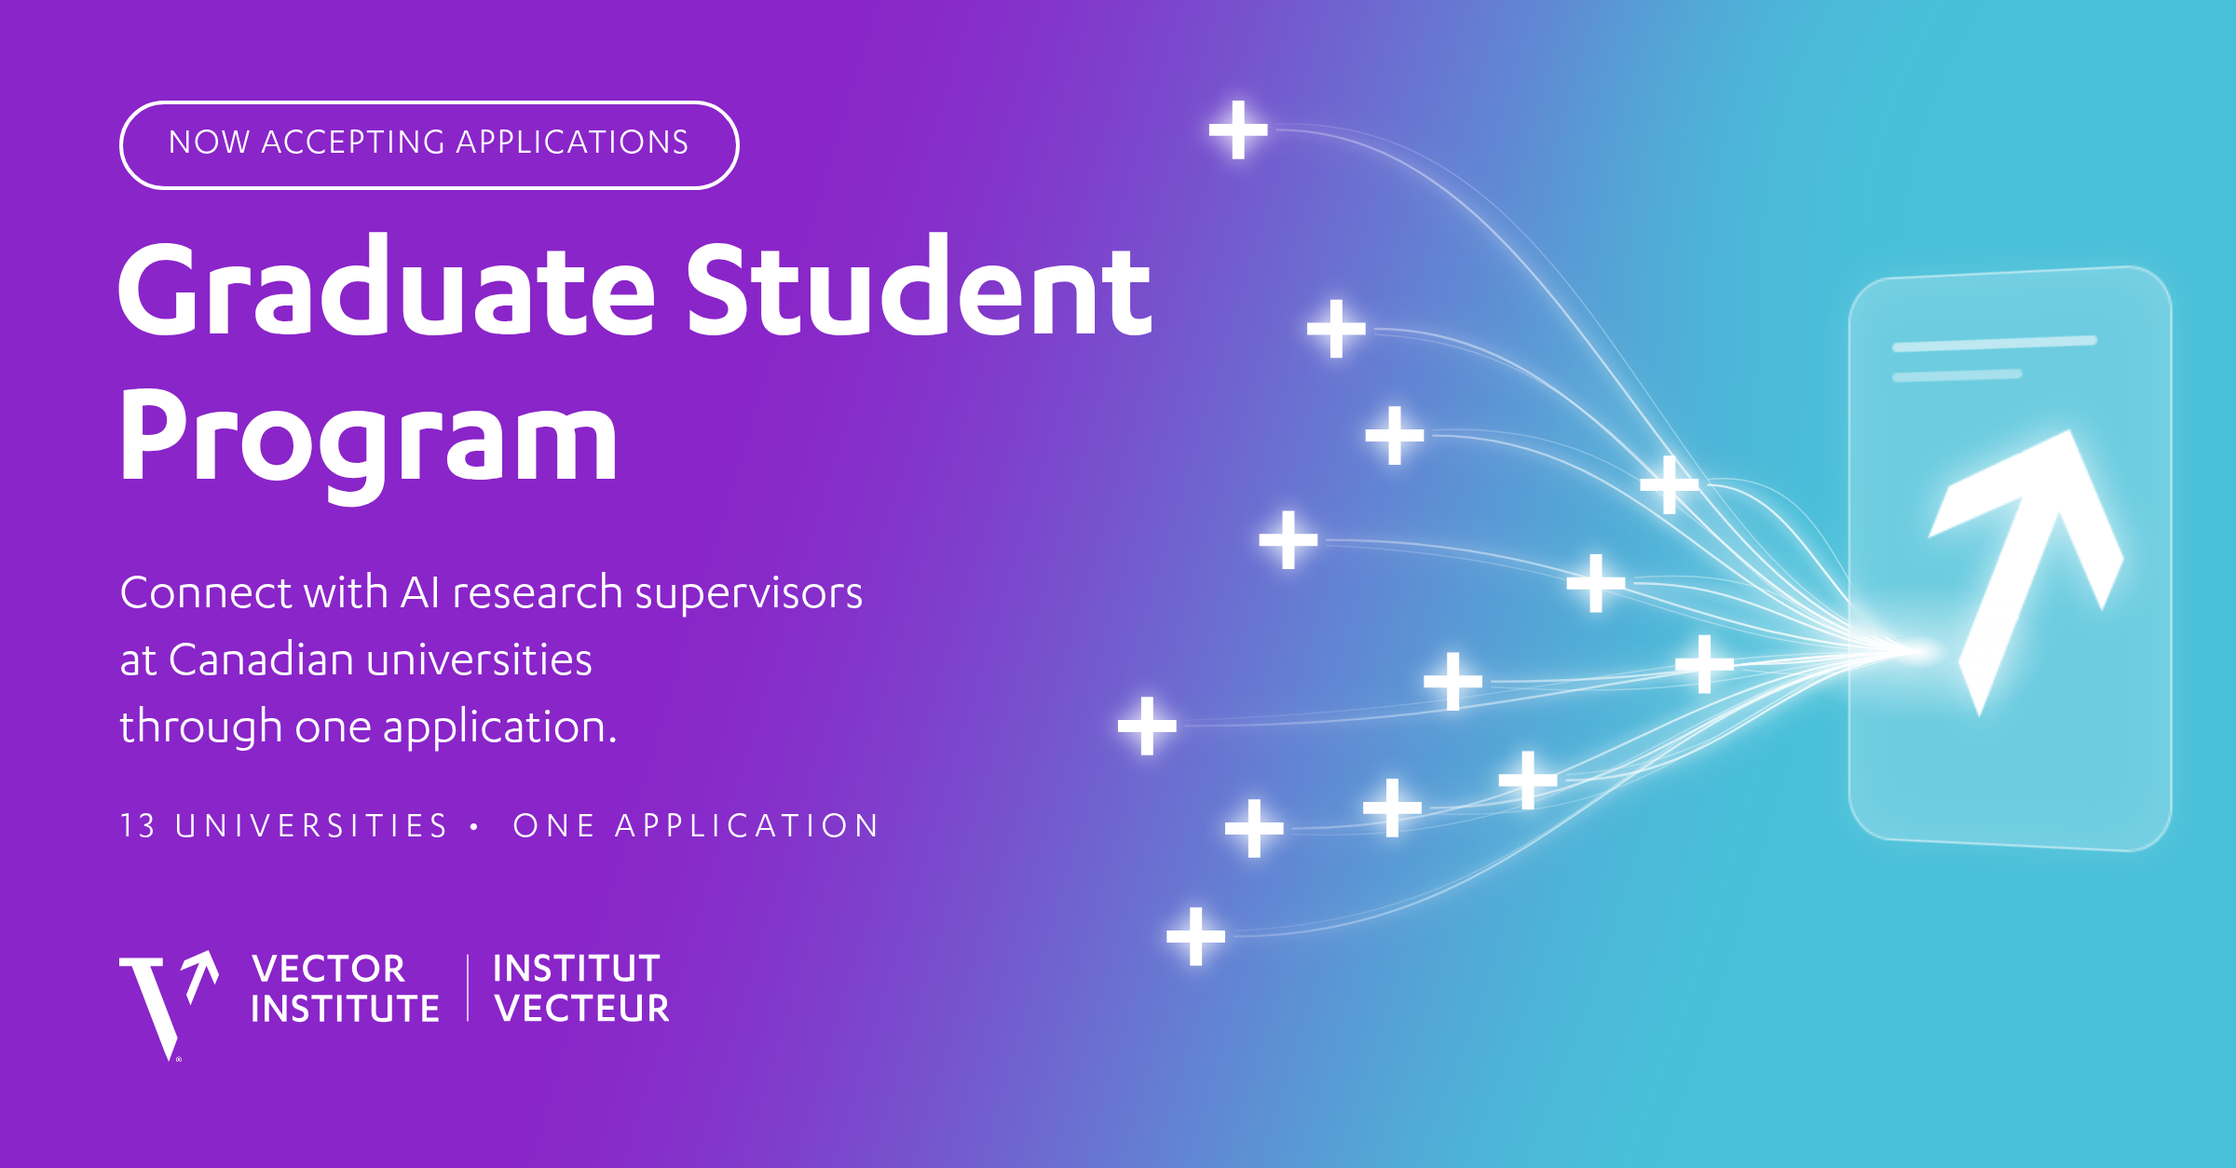
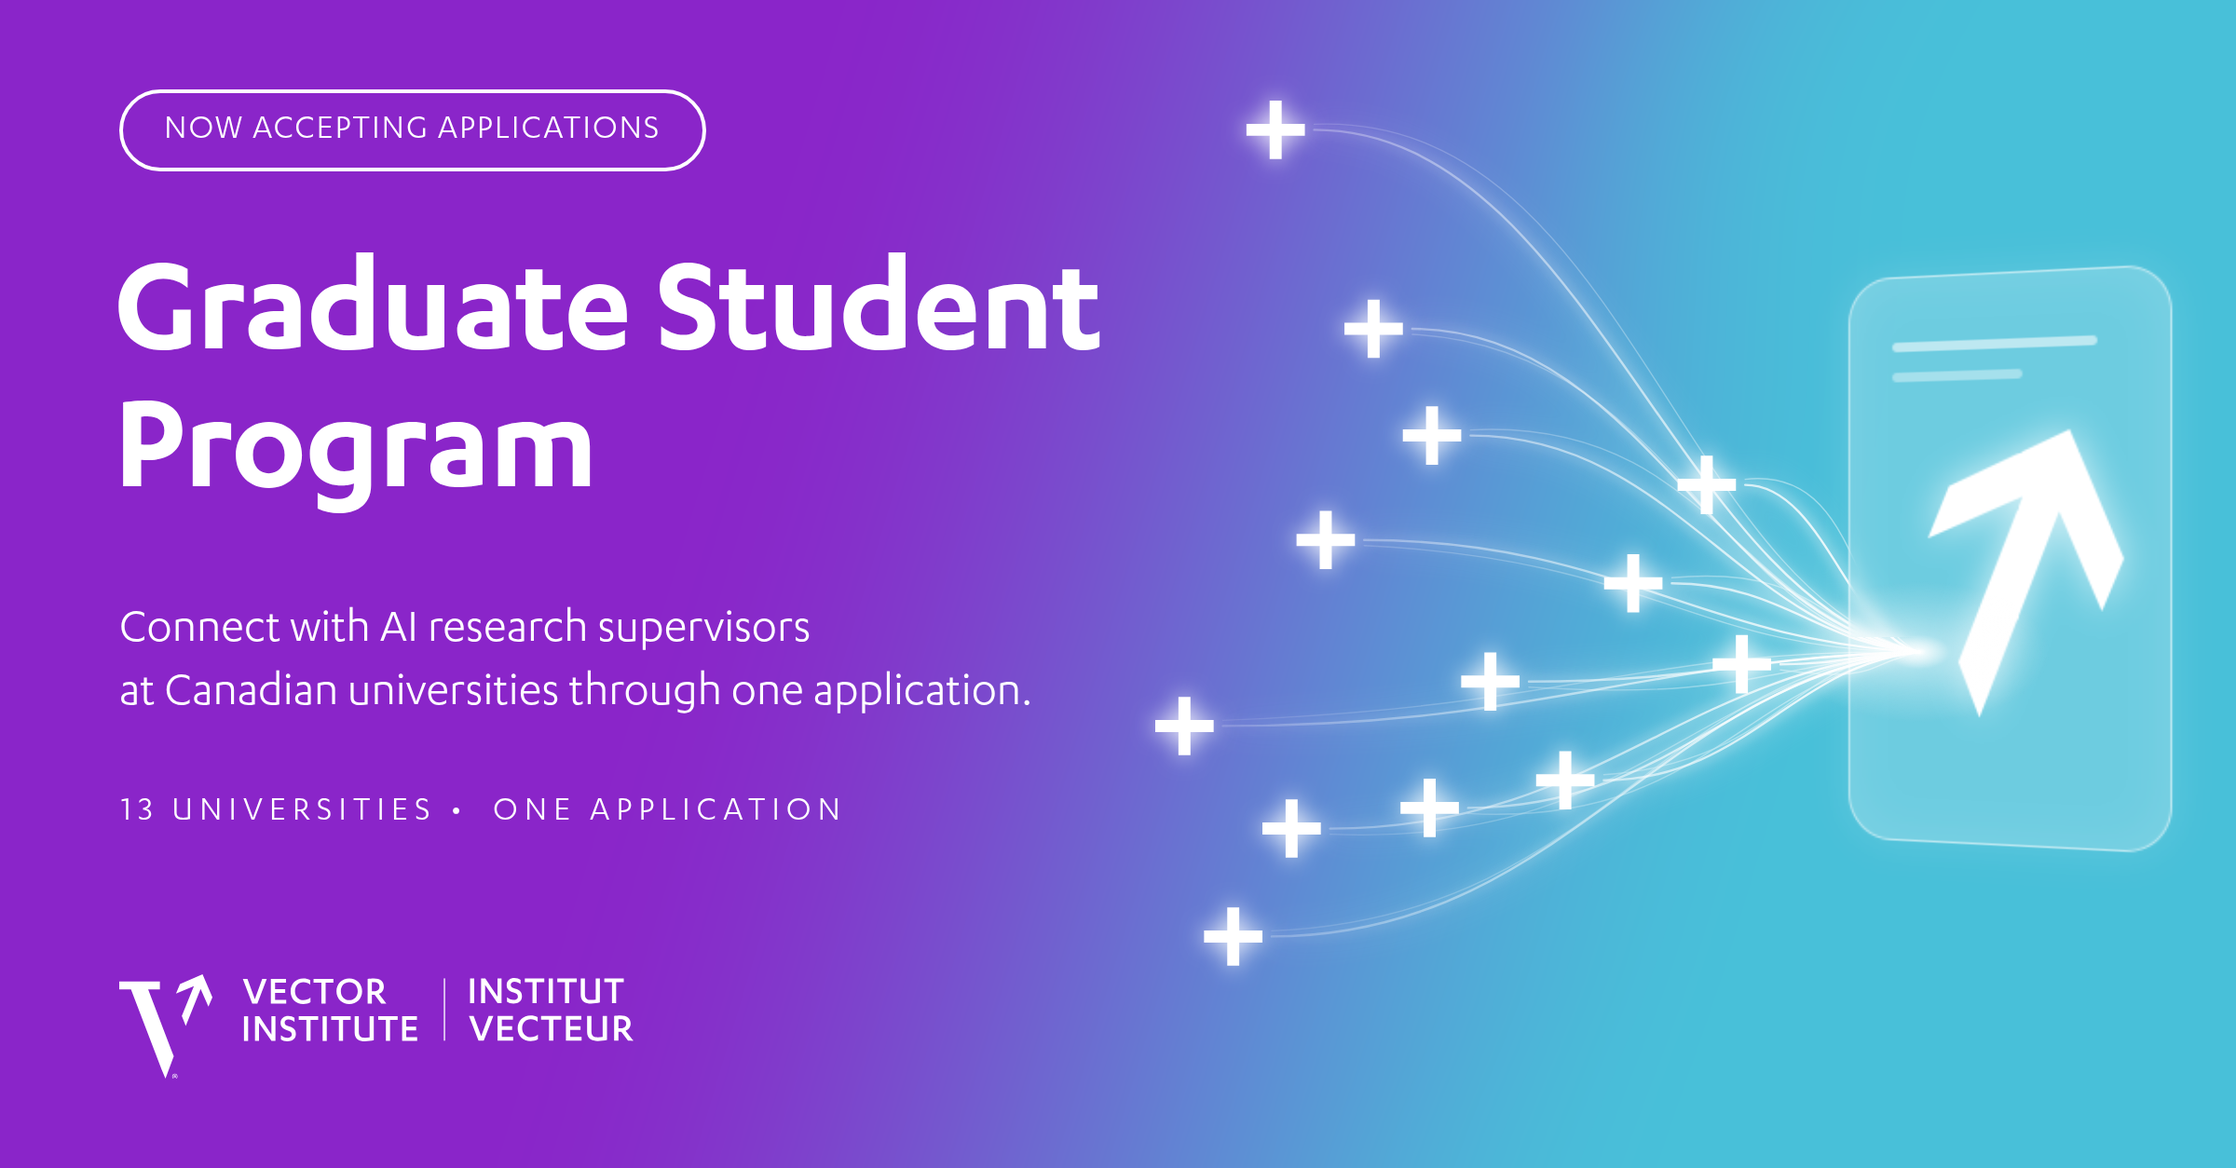
Graduate Student Program graphic: roomier text spacing, two-line byline
More space between pill, headline, byline, tagline and logo; byline back
to two lines at 26px; plus pattern nudged right to keep 66px clearance.
Text layout values now live in one dict in build.py.

Claude-Session: https://claude.ai/code/session_012MwK1vmEpNzT6vtmv9guo8

diff --git a/graduate-student-program/graphic.html b/graduate-student-program/graphic.html
@@ -6,13 +6,13 @@
 html,body{width:1200px;height:627px;overflow:hidden;background:#8A25C9}
 #c{position:relative;width:1200px;height:627px;font-family:Karbon,sans-serif;color:#fff;overflow:hidden}
 .bg,svg.fx{position:absolute;inset:0}
-.pill{position:absolute;left:64px;top:54px;height:48px;padding:0 24px;border:2px solid #fff;border-radius:24px;
-  display:flex;align-items:center;font-size:20px;letter-spacing:.05em;font-weight:400}
-h1{position:absolute;left:61px;top:126px;font-weight:600;font-size:80px;line-height:.98;letter-spacing:-.012em}
-.by{position:absolute;left:64px;top:304px;font-size:28px;line-height:1.28;font-weight:400;width:640px}
-.tr{position:absolute;left:65px;top:433px;font-size:20px;letter-spacing:.18em;font-weight:400}
+.pill{position:absolute;left:64px;top:48px;height:44px;padding:0 22px;border:2px solid #fff;border-radius:22px;
+  display:flex;align-items:center;font-size:19px;letter-spacing:.05em;font-weight:400}
+h1{position:absolute;left:61px;top:136px;font-weight:600;font-size:76px;line-height:.98;letter-spacing:-.012em}
+.by{position:absolute;left:64px;top:323px;font-size:26px;line-height:1.3;font-weight:400;white-space:nowrap}
+.tr{position:absolute;left:65px;top:425px;font-size:19px;letter-spacing:.18em;font-weight:400}
 .tr i{font-style:normal;margin:0 .7em 0 .4em}
-.logo{position:absolute;left:64px;top:510px;height:60px}
+.logo{position:absolute;left:64px;top:523px;height:56px}
 .stage{position:absolute;left:992px;top:150px;width:176px;height:300px;perspective:900px}
 .card{width:100%;height:100%;border-radius:24px;background:rgba(255,255,255,.2);
   border:1.5px solid rgba(255,255,255,.55);transform:rotateY(-16deg);transform-origin:0 50%;
@@ -34,12 +34,12 @@ h1{position:absolute;left:61px;top:126px;font-weight:600;font-size:80px;line-hei
    <stop offset="1" stop-color="#fff" stop-opacity="0"/></radialGradient>
  </defs>
  <g fill="none" stroke="url(#t)" stroke-linecap="round">
-  <g stroke-width="7" opacity=".35" filter="url(#glow2)"><path d="M662.5 502.7C827.9 502.7 883.0 365.3 1030 350"/><path d="M693.8 444.8C845.1 444.8 895.5 359.5 1030 350"/><path d="M636.3 389.7C813.5 389.7 872.5 354.0 1030 350"/><path d="M767.9 433.7C885.9 433.7 925.2 358.4 1030 350"/><path d="M840.7 418.9C925.9 418.9 954.3 356.9 1030 350"/><path d="M800.5 365.9C903.8 365.9 938.2 351.6 1030 350"/><path d="M877.2 313.1C946.0 313.1 968.9 346.3 1030 350"/><path d="M935.5 356.6C978.0 356.6 992.2 350.7 1030 350"/><path d="M916.6 260.3C967.6 260.3 984.7 341.0 1030 350"/><path d="M712.1 289.9C855.2 289.9 902.9 344.0 1030 350"/><path d="M769.2 233.8C886.6 233.8 925.7 338.4 1030 350"/><path d="M737.9 176.5C869.3 176.5 913.1 332.7 1030 350"/><path d="M685.3 69.7C840.4 69.7 892.1 322.0 1030 350"/></g>
-  <g stroke-width="3" opacity=".6" filter="url(#glow)"><path d="M662.5 502.7C827.9 502.7 883.0 365.3 1030 350"/><path d="M693.8 444.8C845.1 444.8 895.5 359.5 1030 350"/><path d="M636.3 389.7C813.5 389.7 872.5 354.0 1030 350"/><path d="M767.9 433.7C885.9 433.7 925.2 358.4 1030 350"/><path d="M840.7 418.9C925.9 418.9 954.3 356.9 1030 350"/><path d="M800.5 365.9C903.8 365.9 938.2 351.6 1030 350"/><path d="M877.2 313.1C946.0 313.1 968.9 346.3 1030 350"/><path d="M935.5 356.6C978.0 356.6 992.2 350.7 1030 350"/><path d="M916.6 260.3C967.6 260.3 984.7 341.0 1030 350"/><path d="M712.1 289.9C855.2 289.9 902.9 344.0 1030 350"/><path d="M769.2 233.8C886.6 233.8 925.7 338.4 1030 350"/><path d="M737.9 176.5C869.3 176.5 913.1 332.7 1030 350"/><path d="M685.3 69.7C840.4 69.7 892.1 322.0 1030 350"/></g>
-  <g stroke-width="1.2" opacity=".95"><path d="M662.5 502.7C827.9 502.7 883.0 365.3 1030 350"/><path d="M693.8 444.8C845.1 444.8 895.5 359.5 1030 350"/><path d="M636.3 389.7C813.5 389.7 872.5 354.0 1030 350"/><path d="M767.9 433.7C885.9 433.7 925.2 358.4 1030 350"/><path d="M840.7 418.9C925.9 418.9 954.3 356.9 1030 350"/><path d="M800.5 365.9C903.8 365.9 938.2 351.6 1030 350"/><path d="M877.2 313.1C946.0 313.1 968.9 346.3 1030 350"/><path d="M935.5 356.6C978.0 356.6 992.2 350.7 1030 350"/><path d="M916.6 260.3C967.6 260.3 984.7 341.0 1030 350"/><path d="M712.1 289.9C855.2 289.9 902.9 344.0 1030 350"/><path d="M769.2 233.8C886.6 233.8 925.7 338.4 1030 350"/><path d="M737.9 176.5C869.3 176.5 913.1 332.7 1030 350"/><path d="M685.3 69.7C840.4 69.7 892.1 322.0 1030 350"/></g>
-  <g stroke-width=".7" opacity=".5"><path d="M662.5 499.7C847.9 492.7 883.0 359.3 1030 350"/><path d="M693.8 447.8C865.1 454.8 895.5 365.5 1030 350"/><path d="M636.3 386.7C833.5 379.7 872.5 348.0 1030 350"/><path d="M767.9 436.7C905.9 443.7 925.2 364.4 1030 350"/><path d="M840.7 415.9C945.9 408.9 954.3 350.9 1030 350"/><path d="M800.5 368.9C923.8 375.9 938.2 357.6 1030 350"/><path d="M877.2 310.1C966.0 303.1 968.9 340.3 1030 350"/><path d="M935.5 359.6C998.0 366.6 992.2 356.7 1030 350"/><path d="M916.6 257.3C987.6 250.3 984.7 335.0 1030 350"/><path d="M712.1 292.9C875.2 299.9 902.9 350.0 1030 350"/><path d="M769.2 230.8C906.6 223.8 925.7 332.4 1030 350"/><path d="M737.9 179.5C889.3 186.5 913.1 338.7 1030 350"/><path d="M685.3 66.7C860.4 59.7 892.1 316.0 1030 350"/></g>
+  <g stroke-width="7" opacity=".35" filter="url(#glow2)"><path d="M682.5 502.7C838.9 502.7 891.0 365.3 1030 350"/><path d="M713.8 444.8C856.1 444.8 903.5 359.5 1030 350"/><path d="M656.3 389.7C824.5 389.7 880.5 354.0 1030 350"/><path d="M787.9 433.7C896.9 433.7 933.2 358.4 1030 350"/><path d="M860.7 418.9C936.9 418.9 962.3 356.9 1030 350"/><path d="M820.5 365.9C914.8 365.9 946.2 351.6 1030 350"/><path d="M897.2 313.1C957.0 313.1 976.9 346.3 1030 350"/><path d="M955.5 356.6C989.0 356.6 1000.2 350.7 1030 350"/><path d="M936.6 260.3C978.6 260.3 992.7 341.0 1030 350"/><path d="M732.1 289.9C866.2 289.9 910.9 344.0 1030 350"/><path d="M789.2 233.8C897.6 233.8 933.7 338.4 1030 350"/><path d="M757.9 176.5C880.3 176.5 921.1 332.7 1030 350"/><path d="M705.3 69.7C851.4 69.7 900.1 322.0 1030 350"/></g>
+  <g stroke-width="3" opacity=".6" filter="url(#glow)"><path d="M682.5 502.7C838.9 502.7 891.0 365.3 1030 350"/><path d="M713.8 444.8C856.1 444.8 903.5 359.5 1030 350"/><path d="M656.3 389.7C824.5 389.7 880.5 354.0 1030 350"/><path d="M787.9 433.7C896.9 433.7 933.2 358.4 1030 350"/><path d="M860.7 418.9C936.9 418.9 962.3 356.9 1030 350"/><path d="M820.5 365.9C914.8 365.9 946.2 351.6 1030 350"/><path d="M897.2 313.1C957.0 313.1 976.9 346.3 1030 350"/><path d="M955.5 356.6C989.0 356.6 1000.2 350.7 1030 350"/><path d="M936.6 260.3C978.6 260.3 992.7 341.0 1030 350"/><path d="M732.1 289.9C866.2 289.9 910.9 344.0 1030 350"/><path d="M789.2 233.8C897.6 233.8 933.7 338.4 1030 350"/><path d="M757.9 176.5C880.3 176.5 921.1 332.7 1030 350"/><path d="M705.3 69.7C851.4 69.7 900.1 322.0 1030 350"/></g>
+  <g stroke-width="1.2" opacity=".95"><path d="M682.5 502.7C838.9 502.7 891.0 365.3 1030 350"/><path d="M713.8 444.8C856.1 444.8 903.5 359.5 1030 350"/><path d="M656.3 389.7C824.5 389.7 880.5 354.0 1030 350"/><path d="M787.9 433.7C896.9 433.7 933.2 358.4 1030 350"/><path d="M860.7 418.9C936.9 418.9 962.3 356.9 1030 350"/><path d="M820.5 365.9C914.8 365.9 946.2 351.6 1030 350"/><path d="M897.2 313.1C957.0 313.1 976.9 346.3 1030 350"/><path d="M955.5 356.6C989.0 356.6 1000.2 350.7 1030 350"/><path d="M936.6 260.3C978.6 260.3 992.7 341.0 1030 350"/><path d="M732.1 289.9C866.2 289.9 910.9 344.0 1030 350"/><path d="M789.2 233.8C897.6 233.8 933.7 338.4 1030 350"/><path d="M757.9 176.5C880.3 176.5 921.1 332.7 1030 350"/><path d="M705.3 69.7C851.4 69.7 900.1 322.0 1030 350"/></g>
+  <g stroke-width=".7" opacity=".5"><path d="M682.5 499.7C858.9 492.7 891.0 359.3 1030 350"/><path d="M713.8 447.8C876.1 454.8 903.5 365.5 1030 350"/><path d="M656.3 386.7C844.5 379.7 880.5 348.0 1030 350"/><path d="M787.9 436.7C916.9 443.7 933.2 364.4 1030 350"/><path d="M860.7 415.9C956.9 408.9 962.3 350.9 1030 350"/><path d="M820.5 368.9C934.8 375.9 946.2 357.6 1030 350"/><path d="M897.2 310.1C977.0 303.1 976.9 340.3 1030 350"/><path d="M955.5 359.6C1009.0 366.6 1000.2 356.7 1030 350"/><path d="M936.6 257.3C998.6 250.3 992.7 335.0 1030 350"/><path d="M732.1 292.9C886.2 299.9 910.9 350.0 1030 350"/><path d="M789.2 230.8C917.6 223.8 933.7 332.4 1030 350"/><path d="M757.9 179.5C900.3 186.5 921.1 338.7 1030 350"/><path d="M705.3 66.7C871.4 59.7 900.1 316.0 1030 350"/></g>
  </g>
- <g fill="#fff" filter="url(#pg)"><path d="M626.19 499.51H638.63V487.07H645.07V499.51H657.51V505.96H645.07V518.40H638.63V505.96H626.19Z"/><path d="M657.51 441.54H669.95V429.10H676.40V441.54H688.84V447.98H676.40V460.42H669.95V447.98H657.51Z"/><path d="M600.00 386.52H612.44V374.08H618.89V386.52H631.33V392.96H618.89V405.40H612.44V392.96H600.00Z"/><path d="M731.62 430.47H744.06V418.03H750.50V430.47H762.94V436.92H750.50V449.36H744.06V436.92H731.62Z"/><path d="M804.40 415.66H816.84V403.22H823.29V415.66H835.73V422.11H823.29V434.55H816.84V422.11H804.40Z"/><path d="M764.19 362.67H776.63V350.23H783.08V362.67H795.52V369.12H783.08V381.56H776.63V369.12H764.19Z"/><path d="M840.88 309.89H853.32V297.45H859.76V309.89H872.20V316.33H859.76V328.77H853.32V316.33H840.88Z"/><path d="M899.16 353.37H911.60V340.93H918.05V353.37H930.49V359.82H918.05V372.26H911.60V359.82H899.16Z"/><path d="M880.31 257.05H892.75V244.61H899.19V257.05H911.63V263.50H899.19V275.94H892.75V263.50H880.31Z"/><path d="M675.82 286.66H688.26V274.22H694.71V286.66H707.15V293.11H694.71V305.55H688.26V293.11H675.82Z"/><path d="M732.87 230.56H745.31V218.12H751.76V230.56H764.20V237.00H751.76V249.44H745.31V237.00H732.87Z"/><path d="M701.54 173.28H713.98V160.84H720.43V173.28H732.87V179.72H720.43V192.16H713.98V179.72H701.54Z"/><path d="M648.94 66.44H661.38V54.00H667.83V66.44H680.27V72.89H667.83V85.33H661.38V72.89H648.94Z"/></g>
+ <g fill="#fff" filter="url(#pg)"><path d="M646.19 499.51H658.63V487.07H665.07V499.51H677.51V505.96H665.07V518.40H658.63V505.96H646.19Z"/><path d="M677.51 441.54H689.95V429.10H696.40V441.54H708.84V447.98H696.40V460.42H689.95V447.98H677.51Z"/><path d="M620.00 386.52H632.44V374.08H638.89V386.52H651.33V392.96H638.89V405.40H632.44V392.96H620.00Z"/><path d="M751.62 430.47H764.06V418.03H770.50V430.47H782.94V436.92H770.50V449.36H764.06V436.92H751.62Z"/><path d="M824.40 415.66H836.84V403.22H843.29V415.66H855.73V422.11H843.29V434.55H836.84V422.11H824.40Z"/><path d="M784.19 362.67H796.63V350.23H803.08V362.67H815.52V369.12H803.08V381.56H796.63V369.12H784.19Z"/><path d="M860.88 309.89H873.32V297.45H879.76V309.89H892.20V316.33H879.76V328.77H873.32V316.33H860.88Z"/><path d="M919.16 353.37H931.60V340.93H938.05V353.37H950.49V359.82H938.05V372.26H931.60V359.82H919.16Z"/><path d="M900.31 257.05H912.75V244.61H919.19V257.05H931.63V263.50H919.19V275.94H912.75V263.50H900.31Z"/><path d="M695.82 286.66H708.26V274.22H714.71V286.66H727.15V293.11H714.71V305.55H708.26V293.11H695.82Z"/><path d="M752.87 230.56H765.31V218.12H771.76V230.56H784.20V237.00H771.76V249.44H765.31V237.00H752.87Z"/><path d="M721.54 173.28H733.98V160.84H740.43V173.28H752.87V179.72H740.43V192.16H733.98V179.72H721.54Z"/><path d="M668.94 66.44H681.38V54.00H687.83V66.44H700.27V72.89H687.83V85.33H681.38V72.89H668.94Z"/></g>
 </svg>
 <div class="stage"><div class="card">
  <div class="ln" style="top:34px;width:112px"></div><div class="ln" style="top:50px;width:72px;opacity:.7"></div>
@@ -51,9 +51,9 @@ h1{position:absolute;left:61px;top:126px;font-weight:600;font-size:80px;line-hei
 </svg>
 <div class="pill">NOW ACCEPTING APPLICATIONS</div>
 <h1>Graduate Student<br>Program</h1>
-<p class="by">Connect with AI research supervisors<br>at Canadian universities<br>through one application.</p>
+<p class="by">Connect with AI research supervisors<br>at Canadian universities through one application.</p>
 <p class="tr">13 UNIVERSITIES<i>•</i>ONE APPLICATION</p>
-<svg class="logo" viewBox="0 0 3816 775" height="60" width="295.4"><g transform="scale(0.42) translate(-721.58 -48.16)"><polygon fill="#fff" points="1649.64 1408.87 1232.78 314.36 1440.01 314.36 1440.01 177.41 721.58 177.41 721.58 314.36 929.23 314.36 1472.62 1737.49 1538.97 1893.09 1685.91 1499.05 1649.64 1408.87"/><polygon fill="#fff" points="2194.88 48.16 1796.37 222.5 1724.81 389.53 2041.77 258.1 1829.8 780.97 1827.78 786.02 1898.29 962.38 2160.95 305.76 2298.75 619.65 2369.3 455.1 2194.88 48.16"/><path fill="#fff" d="M1658.45,1855.17c0-26.51,19.57-47.09,46.35-47.09s46.59,20.57,46.59,47.09-19.59,46.83-46.59,46.83-46.35-20.56-46.35-46.83ZM1741.73,1855.17c0-21.56-15.11-38.41-36.93-38.41s-36.68,16.85-36.68,38.41,15.11,38.17,36.68,38.17,36.93-17.1,36.93-38.17ZM1699.59,1877.23h-10.9v-45.1c3.71-.75,9.67-1.49,14.37-1.49,11.16,0,19.57,5.21,19.57,16.36,0,6.19-3.47,11.15-8.17,13.38l12.15,16.85h-12.65l-9.91-14.37h-4.46v14.37ZM1699.59,1853.44h3.47c4.96,0,8.17-1.74,8.17-6.44s-3.47-6.45-7.93-6.45c-.75,0-2.72,0-3.71.24v12.64Z"/></g><g transform="translate(870.25 -2153.19)">
+<svg class="logo" viewBox="0 0 3816 775" height="56" width="275.7"><g transform="scale(0.42) translate(-721.58 -48.16)"><polygon fill="#fff" points="1649.64 1408.87 1232.78 314.36 1440.01 314.36 1440.01 177.41 721.58 177.41 721.58 314.36 929.23 314.36 1472.62 1737.49 1538.97 1893.09 1685.91 1499.05 1649.64 1408.87"/><polygon fill="#fff" points="2194.88 48.16 1796.37 222.5 1724.81 389.53 2041.77 258.1 1829.8 780.97 1827.78 786.02 1898.29 962.38 2160.95 305.76 2298.75 619.65 2369.3 455.1 2194.88 48.16"/><path fill="#fff" d="M1658.45,1855.17c0-26.51,19.57-47.09,46.35-47.09s46.59,20.57,46.59,47.09-19.59,46.83-46.59,46.83-46.35-20.56-46.35-46.83ZM1741.73,1855.17c0-21.56-15.11-38.41-36.93-38.41s-36.68,16.85-36.68,38.41,15.11,38.17,36.68,38.17,36.93-17.1,36.93-38.17ZM1699.59,1877.23h-10.9v-45.1c3.71-.75,9.67-1.49,14.37-1.49,11.16,0,19.57,5.21,19.57,16.36,0,6.19-3.47,11.15-8.17,13.38l12.15,16.85h-12.65l-9.91-14.37h-4.46v14.37ZM1699.59,1853.44h3.47c4.96,0,8.17-1.74,8.17-6.44s-3.47-6.45-7.93-6.45c-.75,0-2.72,0-3.71.24v12.64Z"/></g><g transform="translate(870.25 -2153.19)">
     <polygon fill="#fff" points="117.6 2370.85 47.75 2187.3 82.07 2187.3 137.08 2339.02 191.77 2187.3 225.47 2187.3 155.62 2370.85 117.6 2370.85"/>
     <polygon fill="#fff" points="370.09 2343.03 370.09 2370.86 256.04 2370.86 256.04 2187.27 368.22 2187.27 368.22 2215.11 287.25 2215.11 287.25 2264.55 362.35 2264.55 362.35 2291.76 287.25 2291.76 287.25 2343.03 370.09 2343.03"/>
     <path fill="#fff" d="M548.09,2231.79c-12.67-12.05-30.28-19.16-50.69-19.16-36.15,0-62.12,26.55-62.12,66.43s27.21,66.47,63.05,66.47c20.72,0,37.39-6.18,51.93-18.85v33.66c-16.09,9.56-34.01,13.61-52.87,13.61-56.56,0-94.58-38.91-94.58-94.89s39.88-94.89,94.58-94.89c18.85,0,35.88,4.04,50.69,12.98v34.63Z"/>

diff --git a/graduate-student-program/build.py b/graduate-student-program/build.py
@@ -18,7 +18,10 @@ def rot(x, y):
     if ROT == 'ccw': return (y, PW - x)          # 90 counter-clockwise
     return (x, y)
 PS = 0.43                     # pattern scale
-PX, PY = 600, 54              # pattern origin
+# text layout (px): top positions, font sizes, heights
+L = dict(pill_top=48, pill_h=44, pill_fs=19, h1_top=136, h1_fs=76, by_top=323, by_fs=26,
+         tr_top=425, tr_fs=19, logo_top=523, logo_h=56)
+PX, PY = 620, 54              # pattern origin
 ARM = 72.85 * PS              # plus width in px
 BAR = 14.99 * PS              # stroke thickness in px
 pts = [(PX + rot(x, y)[0]*PS, PY + rot(x, y)[1]*PS) for x, y in centers]
@@ -67,13 +70,13 @@ html = f'''<!doctype html><html><head><meta charset="utf-8"><title>Graduate Stud
 html,body{{width:{W}px;height:{H}px;overflow:hidden;background:#8A25C9}}
 #c{{position:relative;width:{W}px;height:{H}px;font-family:Karbon,sans-serif;color:#fff;overflow:hidden}}
 .bg,svg.fx{{position:absolute;inset:0}}
-.pill{{position:absolute;left:64px;top:54px;height:48px;padding:0 24px;border:2px solid #fff;border-radius:24px;
-  display:flex;align-items:center;font-size:20px;letter-spacing:.05em;font-weight:400}}
-h1{{position:absolute;left:61px;top:126px;font-weight:600;font-size:80px;line-height:.98;letter-spacing:-.012em}}
-.by{{position:absolute;left:64px;top:304px;font-size:28px;line-height:1.28;font-weight:400;width:640px}}
-.tr{{position:absolute;left:65px;top:433px;font-size:20px;letter-spacing:.18em;font-weight:400}}
+.pill{{position:absolute;left:64px;top:{L['pill_top']}px;height:{L['pill_h']}px;padding:0 22px;border:2px solid #fff;border-radius:{L['pill_h']//2}px;
+  display:flex;align-items:center;font-size:{L['pill_fs']}px;letter-spacing:.05em;font-weight:400}}
+h1{{position:absolute;left:61px;top:{L['h1_top']}px;font-weight:600;font-size:{L['h1_fs']}px;line-height:.98;letter-spacing:-.012em}}
+.by{{position:absolute;left:64px;top:{L['by_top']}px;font-size:{L['by_fs']}px;line-height:1.3;font-weight:400;white-space:nowrap}}
+.tr{{position:absolute;left:65px;top:{L['tr_top']}px;font-size:{L['tr_fs']}px;letter-spacing:.18em;font-weight:400}}
 .tr i{{font-style:normal;margin:0 .7em 0 .4em}}
-.logo{{position:absolute;left:64px;top:510px;height:60px}}
+.logo{{position:absolute;left:64px;top:{L['logo_top']}px;height:{L['logo_h']}px}}
 .stage{{position:absolute;left:992px;top:150px;width:176px;height:300px;perspective:900px}}
 .card{{width:100%;height:100%;border-radius:24px;background:rgba(255,255,255,.2);
   border:1.5px solid rgba(255,255,255,.55);transform:rotateY(-16deg);transform-origin:0 50%;
@@ -112,9 +115,9 @@ h1{{position:absolute;left:61px;top:126px;font-weight:600;font-size:80px;line-he
 </svg>
 <div class="pill">NOW ACCEPTING APPLICATIONS</div>
 <h1>Graduate Student<br>Program</h1>
-<p class="by">Connect with AI research supervisors<br>at Canadian universities<br>through one application.</p>
+<p class="by">Connect with AI research supervisors<br>at Canadian universities through one application.</p>
 <p class="tr">13 UNIVERSITIES<i>•</i>ONE APPLICATION</p>
-<svg class="logo" viewBox="0 0 {LOGO_W} {LOGO_H}" height="60" width="{60*LOGO_W/LOGO_H:.1f}">{logo_inner}</svg>
+<svg class="logo" viewBox="0 0 {LOGO_W} {LOGO_H}" height="{L['logo_h']}" width="{L['logo_h']*LOGO_W/LOGO_H:.1f}">{logo_inner}</svg>
 </div></body></html>'''
 (OUT/'graphic.html').write_text(html)
 print('pattern bbox', min(p[0] for p in pts), max(p[0] for p in pts), min(p[1] for p in pts), max(p[1] for p in pts))
